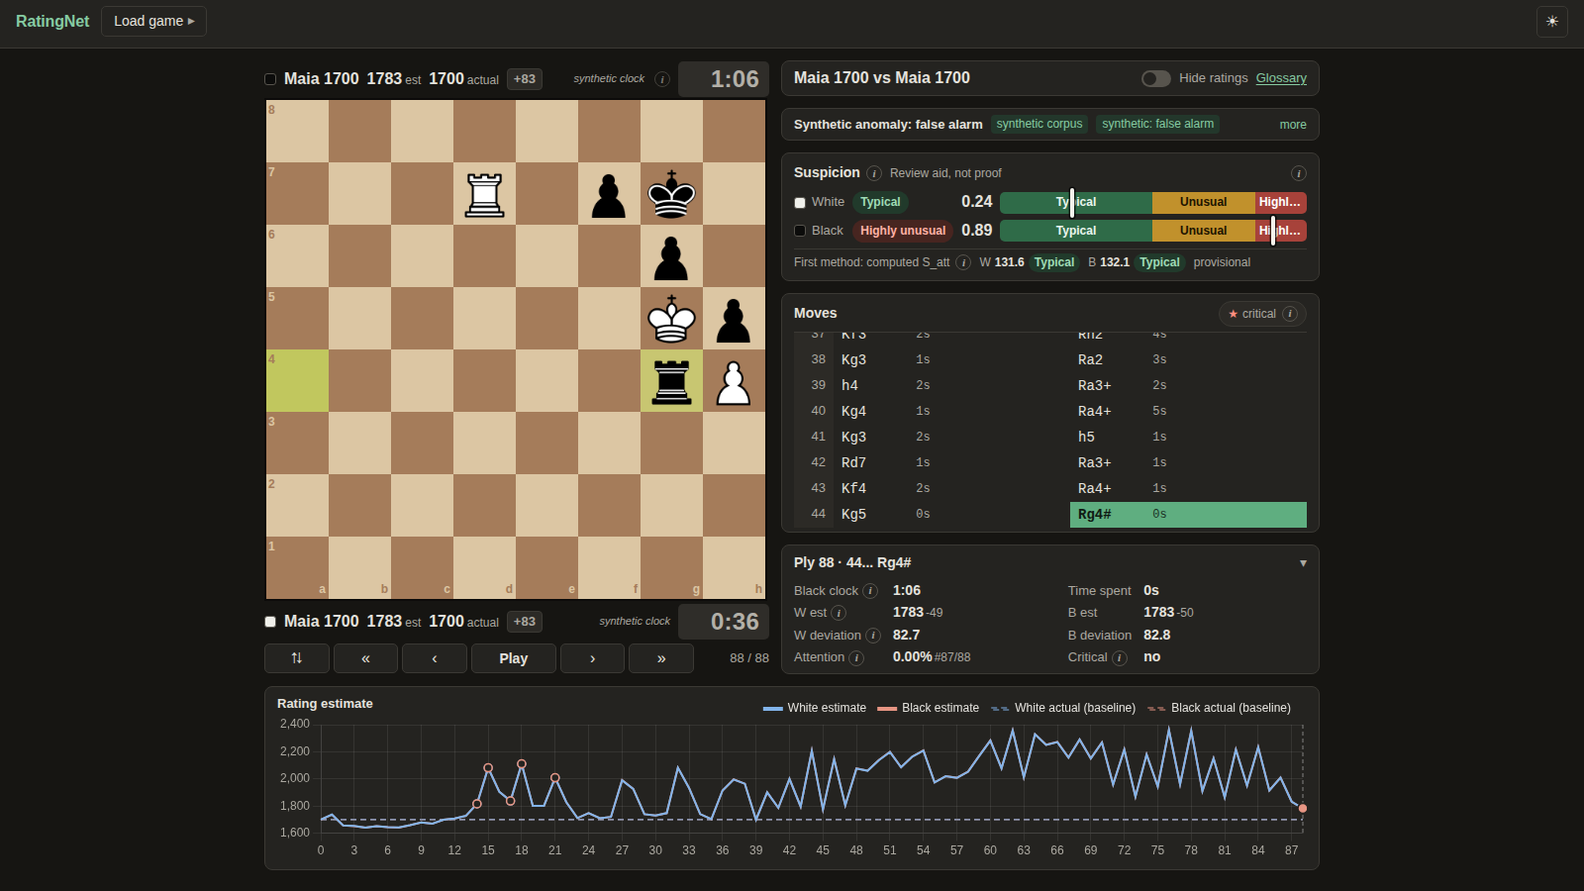
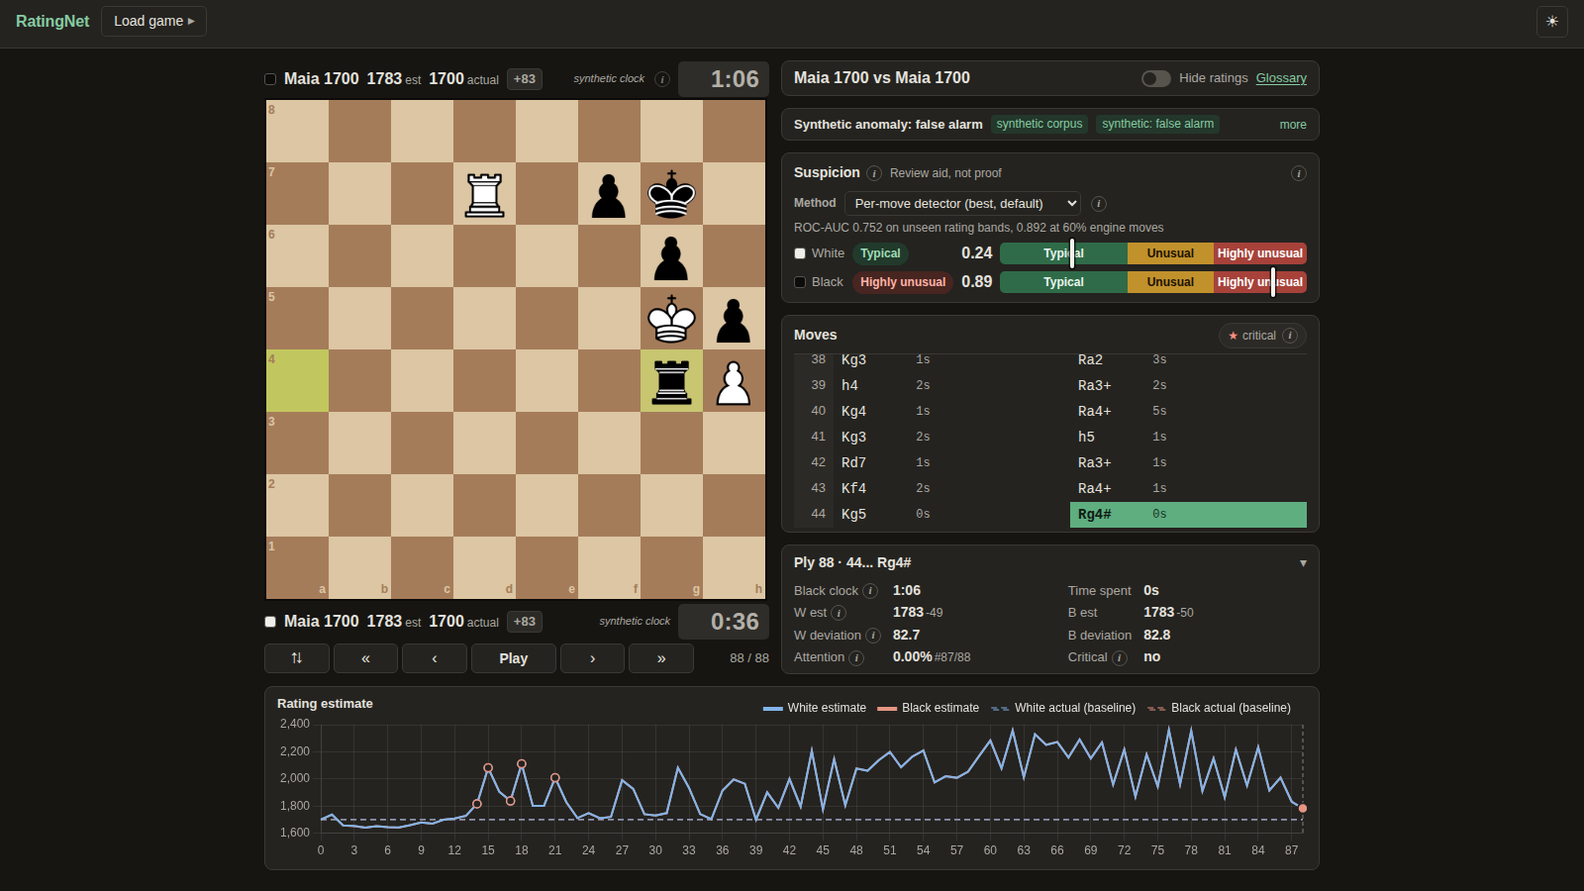
docs: document the four suspicion methods, their cutoffs and the regression suite
README: the method table with each method's own ROC-AUCs, the parity and
cutoffs experiment links, and a Tests section with the opt-in browser
regression suite and when to regenerate its expected scores.
docs/web-prototype.md: the selector, what each method reads, and the
shared-sample cutoffs. docs/api.md: suspicion_methods and
default_suspicion_method. docs/development.md: the three committed
detector models. Screenshots show the new suspicion card.

Changed region(s): [[0.5, 0.2178, 0.8438, 0.4044]]

diff --git a/docs/web-prototype.md b/docs/web-prototype.md
@@ -19,9 +19,9 @@ layout: on a 1080p screen the whole analysis fits without page scrolling.
 The left column is a board sized from the viewport height, with a player bar
 above and below (name, rating estimate, actual rating and error, clock box)
 and one row of controls. The right column holds a small header (players,
-Live/Ongoing chips, the hide-ratings switch, the glossary), the two suspicion
-bars, a move list that scrolls on its own, and a collapsible move-details
-grid. A short rating chart runs across the full width underneath. The page
+Live/Ongoing chips, the hide-ratings switch, the glossary), the suspicion
+card (method dropdown and two bars), a move list that scrolls on its own,
+and a collapsible move-details grid. A short rating chart runs across the full width underneath. The page
 text is kept to short labels; every explanation lives in the (i) popovers
 and the glossary. On narrow screens the columns stack (a dedicated phone
 layout is not built yet).
@@ -112,92 +112,113 @@ see [docs/api.md](api.md)) since the model has little context in the opening and
 early plies would otherwise dominate the list. The detector's own per-move
 logits are deliberately not used here: in thesis evaluation they located
 engine-substituted moves at or below chance (hit@1 about 0.19 against 0.24
-for random picks on withheld rating bands).
+for random picks on withheld rating bands), and so did the CNN-BiLSTM
+detector's, so critical moves stay the same whichever suspicion method is
+selected.
 
 ## Suspicion score
 
-The main suspicion number for each side is the **trained detector** (thesis
-arm A3g, seed 0; `src/detector.py`). A 2-layer BiGRU reads 17 engine-free
-features per ply for the first 100 plies: the rating model's estimate for
-both sides, the gap from the scored side's baseline, attention, running
-statistics of the estimate, captures, checks, material, and clock use. It
-pools per-ply logits over the scored side's moves with gated attention and
-outputs a score from 0 to 1. Each side is scored in turn against its own
-resolved baseline. The score ranks games; it is not a calibrated probability
-of cheating.
+The suspicion card shows one score per side from the method picked in its
+**Method** dropdown. All four are computed server-side from the same
+rating-model pass and returned together in `suspicion_methods` (see
+[docs/api.md](api.md)), so switching re-renders the card without another
+request. The choice is saved in `localStorage` (`ratingnet.suspicionMethod`,
+wrapped in try/catch; the per-move detector on first visit) and applies to
+live updates too. Under the dropdown, a one-line caption gives that method's
+own measured ROC-AUC on rating bands withheld from training and at 60 percent
+engine moves; the method (i) lists all four and notes that critical moves do
+not follow the selection. Captions and info text are built from
+`src/static/suspicion_methods.json`, which
+`experiments/method_table/build_method_table.py` generates from the model
+provenance files, so no number is typed into the page.
 
-Measured on the thesis's synthetic anomaly corpus v2 (twin-safe grouped
-split, `src/models/detector_a3g_seed0.json`): ROC-AUC 0.752 on rating bands
-withheld from training (0.688 for the LightGBM detector on the same split),
-0.576 and 0.606 when only 2 and 5 percent of moves were engine moves, and
-0.892 at 60 percent. The feature and model code is ported from the HPC
-scripts that trained it (`extract_detector_features_v2.py`,
-`extra_arm_a3.py`), and `experiments/detector_parity/` shows the app path
-reproducing that code to within 6e-07 on the 12 bundled samples and 8 corpus
-games.
+| Page label | Code (thesis arm) | What it reads | Scale |
+| --- | --- | --- | --- |
+| Computed score (first method tried) | `src/anomaly.py` (S_att) | attention and the per-move gap from baseline | rating points |
+| Trained detector (LightGBM) | `src/lgbm_detector.py` (A0g) | 97 whole-game summaries of the rating model's outputs, board and clock facts | 0 to 1 |
+| Per-move detector (best, default) | `src/detector.py` (A3g) | 17 per-ply features from the rating model's outputs, board and clock facts | 0 to 1 |
+| Full model (CNN-BiLSTM) | `src/cnn_bilstm_detector.py` (A4) | the board positions and clocks themselves | 0 to 1 |
 
-The **computed score S_att** (`src/anomaly.py`) was the first method tried:
-the attention-weighted average gap, in rating points, between the per-move
-estimate and the baseline, with no trained parameters. It separated
-engine-substituted synthetic games only weakly in thesis evaluation (ROC-AUC
-0.555). It stays on the page as one secondary line under the bars ("First
-method: computed S_att"), with its own labels, and in the API as
-`*_computed_score`.
+- **Computed score S_att** was the first method tried: the attention-weighted
+  average gap, in rating points, between the per-move estimate and the
+  baseline, with no trained parameters. On the synthetic corpus it separated
+  engine games at about chance (ROC-AUC 0.506 on withheld bands).
+- **LightGBM detector** (A0g): gradient-boosted trees over 97 pooled per-game
+  features (means, maxima, percentiles and spreads of deviation, attention
+  times deviation, the estimate, its jumps, material and clock use, for the
+  scored side and all plies). The thesis run saved no model file, so the
+  shipped model is a re-fit with the unchanged code, data and seed that
+  reproduces every stored thesis score exactly. Walked in pure Python, no
+  `lightgbm` package needed.
+- **Per-move detector** (A3g, seed 0), the default: a 2-layer BiGRU reads 17
+  engine-free features per ply for the first 100 plies (the rating model's
+  estimate for both sides, the gap from the scored side's baseline,
+  attention, running statistics of the estimate, captures, checks, material,
+  clock use) and pools per-ply logits over the scored side's moves with gated
+  attention. It measured best of the four on withheld bands (0.752).
+- **CNN-BiLSTM detector** (A4): the rating model's own frozen CNN embeds each
+  position; a fine-tuned copy of its BiLSTM and causal attention reads the
+  embeddings plus the clock, and a gated-attention head pools per-ply logits.
+  It trained on the v2 split, which is not twin-safe, so its withheld-band
+  result (0.705) is the fair comparison. It ignores the baseline.
+
+Each side is scored in turn as the suspect against its own resolved baseline.
+No score is a calibrated probability of cheating. Measured results for all
+four come from the thesis's synthetic anomaly corpus v2 (headline tables in
+the README and in each `src/models/*.json`). Each trained method's port
+reproduces its HPC code path: `experiments/detector_parity/` (per-move,
+6e-07) and `experiments/method_parity/` (LightGBM 4.8e-07, CNN-BiLSTM
+2.6e-05).
 
 ## Suspicion labels
 
-Next to each suspicion bar, a label chip classifies that side's detector
-score against percentile cutoffs computed from ordinary, finished, rated
-games in the thesis's held-out TEST-partition corpus (games the rating model
-never trained on): **Typical** (below the 75th percentile of those games),
-**Unusual** (75th to 95th percentile), or **Highly unusual: worth a human
-review** (above the 95th percentile). Each bar is a segmented scale, not a
-plain gradient: the track is split into green/amber/red zones sized from that
-side's resolved p75/p95 cutoffs, with the score shown as a needle marker (the
-number sits beside the chip). The detector's scale runs from 0 to 1. When the
-server falls back to S_att as the main score, its scale max is
+Next to each suspicion bar, a label chip classifies that side's score, under
+the selected method, against that method's own percentile cutoffs computed
+from ordinary, finished, rated games in the thesis's held-out TEST-partition
+corpus (games the rating model never trained on): **Typical** (below the 75th
+percentile of those games), **Unusual** (75th to 95th percentile), or **Highly
+unusual: worth a human review** (above the 95th percentile). Each bar is a
+segmented scale, not a plain gradient: the track is split into
+green/amber/red zones sized from that side's resolved p75/p95 cutoffs, with
+the score shown as a needle marker (the number sits beside the chip). The
+detectors' scale runs from 0 to 1; S_att's scale max is
 `max(score, 1.6 * p95)` so all three zones stay visible. The card header says
 "Review aid, not proof", and the label (i) explains the comparison against
 ordinary games. Cutoffs use the game's own time-control bucket
 (bullet/blitz/rapid/classical/ultrabullet, derived from the PGN `TimeControl`
 header) when that bucket has at least 300 sides scored; otherwise they fall
 back to the overall cutoff. The boundary logic is covered in
-`tests/test_suspicion_labels.py` and `tests/test_detector.py`.
+`tests/test_suspicion_labels.py` and `tests/test_suspicion_methods.py`.
 
-Each score has its own cutoffs file, and each file names its score in a
-`score` field; the API ignores a file whose `score` does not match, so the two
-distributions can never be mixed up:
-
-- `src/static/suspicion_cutoffs.json` (`"score": "detector_a3g_seed0"`):
-  2,822 held-out test games (5,644 sides) from a stratified sample (up to
-  700 each for bullet, blitz and rapid, all available classical and
-  ultrabullet games), scored on the HPC CPU with this repo's own
-  `src/detector.py`. Overall p75 0.4805 and p95 0.8227; every time control
-  has its own cutoff. The full sample completed, so it is not provisional.
-  Method, table with bootstrap CIs, and the sample-game sanity check are in
-  `experiments/detector_cutoffs/README.md`.
-- `src/static/suspicion_cutoffs_s_att.json` (`"score": "s_att"`): the S_att
-  cutoffs. 2,536 held-out test games (5,072 sides) from the same stratified
-  sample as the detector cutoffs (up to 600 each for bullet, blitz and
-  rapid, all available classical and ultrabullet games), scored on the HPC
-  CPU with the attention-weighted `AnomalyDetector`. Overall p75 382.17 and
-  p95 634.11; every time control has its own cutoff. The full sample
-  completed, so it is not provisional. Method, results table, and the
-  sample-game sanity check are in `experiments/satt_cutoffs/README.md`. A
-  "Provisional cutoffs" chip in the suspicion header appears only if the
-  main score's cutoffs are provisional.
+All four methods' cutoffs live in `src/static/suspicion_cutoffs.json` under
+`methods`, keyed by method id, and all four come from the **same** 2,822
+held-out test games (5,644 sides; a stratified sample of up to 700 each for
+bullet, blitz and rapid plus all available classical and ultrabullet games),
+scored on the HPC CPU with this repo's own code. Each entry names its own
+score in a `score` field, and the API drops an entry whose `score` does not
+match its key, so one method's distribution can never label another's score.
+Overall cutoffs (p75 / p95): S_att 379.27 / 629.16 rating points, LightGBM
+0.5807 / 0.7656, per-move detector 0.4805 / 0.8227, CNN-BiLSTM
+0.6275 / 0.8111; every time control has its own cutoff. None is provisional.
+Method, tables with bootstrap CIs, and every sample under every method are in
+`experiments/method_cutoffs/README.md`. (S_att previously had its own file
+from a separate 2,536-game draw, `experiments/satt_cutoffs/`; its cutoffs
+agree with these to within their bootstrap CIs.) A "Provisional cutoffs" chip in the
+suspicion header appears only if the selected method's cutoffs are marked
+provisional.
 
 Labels never claim cheating and never say "likely" or name a player as
 suspicious. About 5 percent of ordinary games land in "Highly unusual" by
-construction, and the bundled `synthetic: false alarm` sample (see "Sample
-games" below) has no engine moves at all yet scores "Highly unusual" on one
-side. A label describes how uncommon a score is among ordinary games, not a
-verdict about the players.
+construction, under every method, and the bundled `synthetic: false alarm`
+sample (see "Sample games" below) has no engine moves at all yet scores
+"Highly unusual" on one side under the default method. The methods often
+disagree on the same game. A label describes how uncommon a score is among
+ordinary games, not a verdict about the players.
 
-The API returns the labels and the cutoffs actually applied for both scores
-(see [docs/api.md](api.md)), so the labelling logic is testable independent of the
-UI. `suspicion_labels.py` takes a score and a cutoffs object in the shared
-shape, with no reference to either score.
+The API returns the labels and the cutoffs actually applied for every method
+(see [docs/api.md](api.md)), so the labelling logic is testable independent
+of the UI. `suspicion_labels.py` takes a score and a cutoffs object in the
+shared shape, with no reference to any particular score.
 
 ## Sample games
 
@@ -220,8 +241,8 @@ same analysis board as every other input mode. Cards are grouped by
 - **Synthetic anomaly: caught / false alarm / missed** - three games from
   this project's own synthetic anomaly corpora (a Maia policy network's
   moves with some fraction substituted for a stronger engine's,
-  `src/generate_anomaly_corpus.py`), one per outcome for the main (detector)
-  score against the cutoffs above: **caught** (corpus v1, 60 percent Lc0
+  `src/generate_anomaly_corpus.py`), one per outcome for the default method
+  (the per-move detector) against its cutoffs above: **caught** (corpus v1, 60 percent Lc0
   substitution, White scores 0.95, Highly unusual), **false alarm** (corpus
   v2, no engine moves, Black still scores 0.89, Highly unusual) and
   **missed** (corpus v2, 15 of Black's 34 eligible moves swapped for

diff --git a/README.md b/README.md
@@ -6,9 +6,9 @@ with a deeper CNN, an attention mechanism, a move-level anomaly-detection
 module, and a real-time web prototype for human fair-play review.
 
 The prototype estimates each player's rating move by move from board states
-and clock times, and gives each side a suspicion score from a trained
-detector, as a pointer for a human reviewer. It takes a PGN, a Lichess game
-ID, a built-in sample game, or a live ongoing Lichess game.
+and clock times, and gives each side a suspicion score, from any of four
+methods the thesis tried, as a pointer for a human reviewer. It takes a PGN, a
+Lichess game ID, a built-in sample game, or a live ongoing Lichess game.
 
 **Based on the baseline paper:** *Chess Rating Estimation from Moves and Clock
 Times Using a CNN-LSTM* by Michael Omori and Prasad Tadepalli (Oregon State
@@ -30,21 +30,28 @@ The same view in dark theme, and the sample-game picker:
 - **Rating estimate per move** (`src/chess_rating_net.py`, `src/attention.py`):
   a CNN-BiLSTM with causal-cumulative Bahdanau attention. The API serves the
   frozen thesis checkpoint: the tuned-attention arm, test MAE 171.92.
-- **Suspicion score per side** (`src/detector.py`, weights in `src/models/`):
-  a trained BiGRU (thesis arm A3g) over the rating model's per-move outputs,
-  scoring each side from 0 to 1. ROC-AUC 0.752 on synthetic games from rating
-  bands withheld from training, falling to 0.576 and 0.606 when only 2 and 5
-  percent of moves are engine moves. The parameter-free attention-weighted
-  score S_att (`src/anomaly.py`, ROC-AUC 0.555) stays as the first method
-  tried, on a secondary line.
+- **Suspicion score per side, four selectable methods** (weights in
+  `src/models/`). A Method dropdown on the suspicion card switches between
+  them for the loaded game without re-running the rating model, and remembers
+  the choice. ROC-AUC on synthetic games from rating bands withheld from
+  training (from `src/static/suspicion_methods.json`):
+
+  | Method (page label) | Code, thesis arm | Withheld bands | 2% engine moves | 60% engine moves |
+  | --- | --- | --- | --- | --- |
+  | Computed score (first method tried) | `src/anomaly.py`, S_att | 0.506 | 0.497 | 0.520 |
+  | Trained detector (LightGBM) | `src/lgbm_detector.py`, A0g | 0.688 | 0.539 | 0.811 |
+  | **Per-move detector (best, default)** | `src/detector.py`, A3g | **0.752** | 0.576 | 0.892 |
+  | Full model (CNN-BiLSTM) | `src/cnn_bilstm_detector.py`, A4 | 0.705 | 0.547 | 0.838 |
 
   ![Suspicion card](docs/screenshots/suspicion-card.png)
 
-- **Typical / Unusual / Highly unusual labels**, from percentile cutoffs over
-  2,822 ordinary held-out test games, per time control. A label says how
-  uncommon a score is among ordinary games, never that anyone cheated.
+- **Typical / Unusual / Highly unusual labels**, from each method's own
+  percentile cutoffs over the same 2,822 ordinary held-out test games, per
+  time control. A label says how uncommon a score is among ordinary games,
+  never that anyone cheated.
 - **Critical moves**: per side, the moves ranked highest by attention times
-  rating deviation, so a reviewer knows where to look first.
+  rating deviation, so a reviewer knows where to look first. This ranking
+  does not change with the selected method.
 - **Live mode**: follows an ongoing Lichess game (or Lichess TV) move by move
   over Server-Sent Events.
 - **Sample games**: held-out test games across time controls, plus synthetic
@@ -99,9 +106,10 @@ mkdir -p models/preflight_check_2m
 cp /path/to/best_model.pth models/preflight_check_2m/best_model.pth
 ```
 
-The trained suspicion detector is small and **is** committed, with its
-provenance, at `src/models/`. See [docs/development.md](docs/development.md)
-for the fallback checkpoint, submodule use, and the training path.
+The trained suspicion detectors (per-move, LightGBM, CNN-BiLSTM head) are
+small and **are** committed, with their provenance, at `src/models/`. See
+[docs/development.md](docs/development.md) for the fallback checkpoint,
+submodule use, and the training path.
 
 ## Documentation
 
@@ -113,9 +121,44 @@ for the fallback checkpoint, submodule use, and the training path.
 - [docs/development.md](docs/development.md) - weights, submodule use,
   training path, and the upstream baseline's own README.
 - [experiments/detector_parity/](experiments/detector_parity/) - the app's
-  detector path reproduces the thesis HPC code to within 6e-07.
-- [experiments/detector_cutoffs/](experiments/detector_cutoffs/) - how the
-  suspicion cutoffs were computed, with bootstrap CIs.
+  per-move detector path reproduces the thesis HPC code to within 6e-07.
+- [experiments/method_parity/](experiments/method_parity/) - the same check
+  for the LightGBM (4.8e-07) and CNN-BiLSTM (2.6e-05) ports.
+- [experiments/method_cutoffs/](experiments/method_cutoffs/) - how every
+  method's suspicion cutoffs were computed, with bootstrap CIs.
+
+## Tests
+
+```bash
+pytest tests/
+```
+
+needs no rating checkpoint and runs in a few seconds; it covers every scoring
+path against fixtures from the thesis HPC code, the cutoffs and label logic,
+and the method-switch response.
+
+**Regression suite (run after any model, detector or cutoffs change).**
+`tests/test_browser_regression.py` loads all 12 bundled samples under all 4
+suspicion methods (48 cases) in headless Chrome and checks for console errors,
+that the score and label render, and that each score matches its
+parity-checked value in `tests/regression/expected_sample_scores.json`. It is
+opt-in because it needs the checkpoint, Playwright and a Chrome binary:
+
+```bash
+pip install playwright
+RATINGNET_BROWSER_REGRESSION=1 \
+RATINGNET_CHECKPOINT=/path/to/best_model.pth \
+RATINGNET_CHROME=/path/to/chrome \
+pytest tests/test_browser_regression.py
+```
+
+It starts its own server on a free port (or set `RATINGNET_REGRESSION_URL` to
+test a running one); `RATINGNET_CHROME` can be left out if Playwright's own
+Chromium is installed (`playwright install chromium`). After a deliberate
+change (an arm swap, new cutoffs), regenerate the expected file with
+`experiments/method_parity/build_regression_expected.py` (for a new or
+re-trained detector, re-run its parity check first so the expected scores
+come from the HPC code path) and review the diff.
 
 ## Limitations
 
@@ -124,11 +167,12 @@ for the fallback checkpoint, submodule use, and the training path.
 > player automatically. See Barnes and Hernandez-Castro (2015) on the
 > false-positive risk of single-game move analysis.
 
-- **The detector learned from synthetic games only.** Its measured AUCs come
-  from Maia games with inserted engine moves, not from confirmed real
-  cheating cases, and it is weak when only a few moves are engine moves
-  (about 0.58 at 2 percent). Its per-move outputs do not locate the engine
-  moves, so the app does not use them.
+- **The trained detectors learned from synthetic games only.** Their measured
+  AUCs come from Maia games with inserted engine moves, not from confirmed
+  real cheating cases, and all are weak when only a few moves are engine
+  moves (0.54 to 0.58 at 2 percent). None of their per-move outputs locate
+  the engine moves, so the app does not use them. The four methods often
+  disagree on the same game.
 
 > **Mid-game values are provisional.** For an ongoing game (`Result` header
 > `*`), Lichess itself delays the export by a few moves, and any suspicion

diff --git a/docs/development.md b/docs/development.md
@@ -17,12 +17,28 @@ the tuned attention arm (test MAE 171.92). It is **not committed** to git (see
   - Expected location: `models/model_55.pth`
   - Download: [Google Drive folder](https://drive.google.com/drive/folders/164qXisHsNAKSM6R7ZMeTeJjPpnZ7s5Rt)
 
-The trained suspicion detector is small (about 2.2 MB) and **is committed**:
-`src/models/detector_a3g_seed0.pt`, with `src/models/detector_a3g_seed0.json`
-recording its provenance (HPC source paths and script hashes, split, seed,
-training time, headline AUCs, the exact feature list and order, and the
-training-split standardization constants). If it is missing, the API serves
-S_att as the main score and says so in `warnings`.
+The trained suspicion detectors are small and **are committed**, each with a
+JSON provenance file next to it (HPC source paths and script hashes, split,
+seed, headline AUCs, and whatever the port needs, such as the exact feature
+list and standardization constants):
+
+- `src/models/detector_a3g_seed0.pt` (about 2.2 MB): the per-move detector,
+  the default method. If it is missing, the API serves S_att in the
+  top-level `*_suspicion_*` fields and says so in `warnings`.
+- `src/models/detector_lgbm_a0g.txt` (about 1.6 MB): the LightGBM detector as
+  a LightGBM text model, read by `src/lgbm_detector.py`'s own tree walker (no
+  `lightgbm` package needed). The thesis run kept no model file, so this is a
+  re-fit that reproduces every stored thesis score exactly; see
+  `experiments/method_parity/`.
+- `src/models/detector_cnn_bilstm_a4.pt` (about 1.6 MB): the CNN-BiLSTM
+  detector's BiLSTM, attention and head. Its CNN trunk is the served rating
+  checkpoint's own (frozen in training), so this method needs the thesis
+  checkpoint too.
+
+A missing LightGBM or CNN-BiLSTM file only makes that method unavailable
+(`"available": false` in `suspicion_methods`, "Not available on this server"
+on the page). Tests and the browser regression suite are described in the
+[README](../README.md#tests).
 
 ## Used as a submodule
 

diff --git a/docs/api.md b/docs/api.md
@@ -53,7 +53,19 @@ All three `predict/*` endpoints return the same shape:
   the computed score S_att (attention-weighted deviation from baseline, in
   rating points), always returned for comparison.
 - `white_computed_label`, `black_computed_label`, `computed_cutoffs_used`:
-  the same label fields for S_att, against the S_att cutoffs file.
+  the same label fields for S_att, against its own cutoffs.
+- `suspicion_methods`: every selectable suspicion-score method, keyed by id in
+  page order: `s_att` (computed score), `lgbm_a0g` (LightGBM detector),
+  `detector_a3g_seed0` (per-move detector, the default) and `cnn_bilstm_a4`
+  (CNN-BiLSTM detector). All are computed from the same rating-model pass, so
+  a client can switch methods without another request. Each entry has
+  `available` (false when that model is not loaded, with every other field
+  `null`), `scale` (`rating_points` for S_att, `unit` for the 0 to 1
+  detectors), `white_score`, `black_score`, `white_label`, `black_label`, and
+  `cutoffs_used` (same shape as `suspicion_cutoffs_used`, against that
+  method's own entry in `src/static/suspicion_cutoffs.json`).
+- `default_suspicion_method`: the method mirrored in the top-level
+  `*_suspicion_*` fields (`detector_a3g_seed0`).
 - `per_move`: one record per ply (`ply`, `move` as SAN, `uci`, `white_rating`,
   `black_rating`, `attention_weight`, `white_deviation`, `black_deviation`,
   `clock_seconds`, `time_spent_seconds`). `clock_seconds` is that ply's mover's
